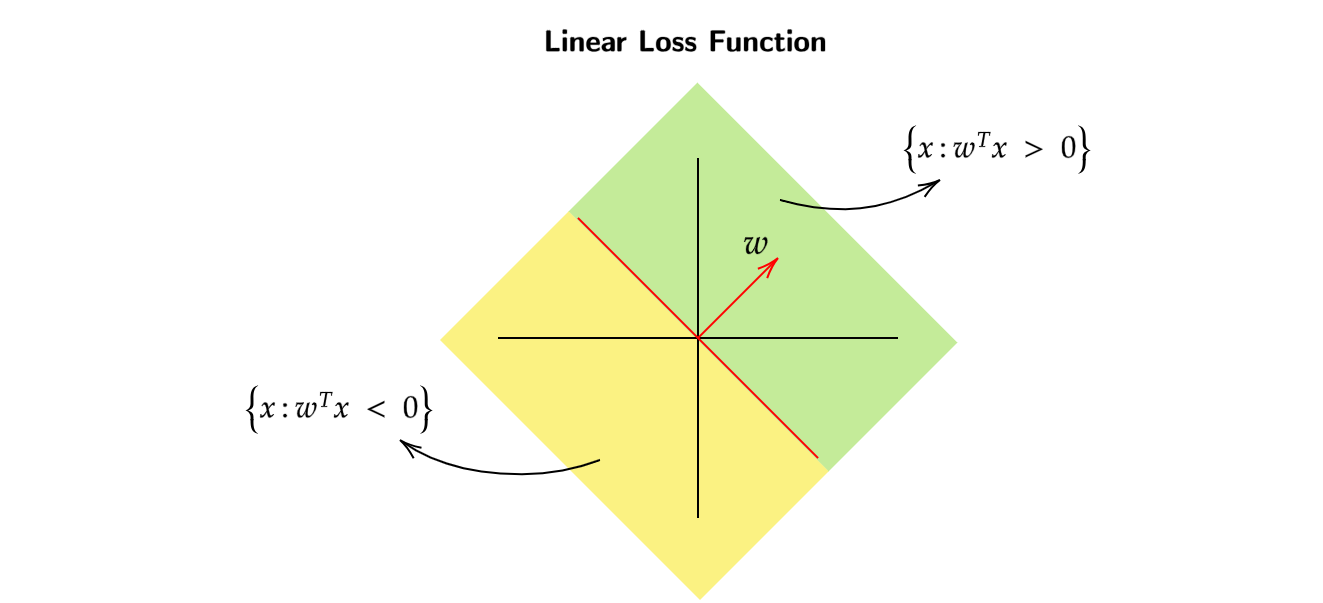
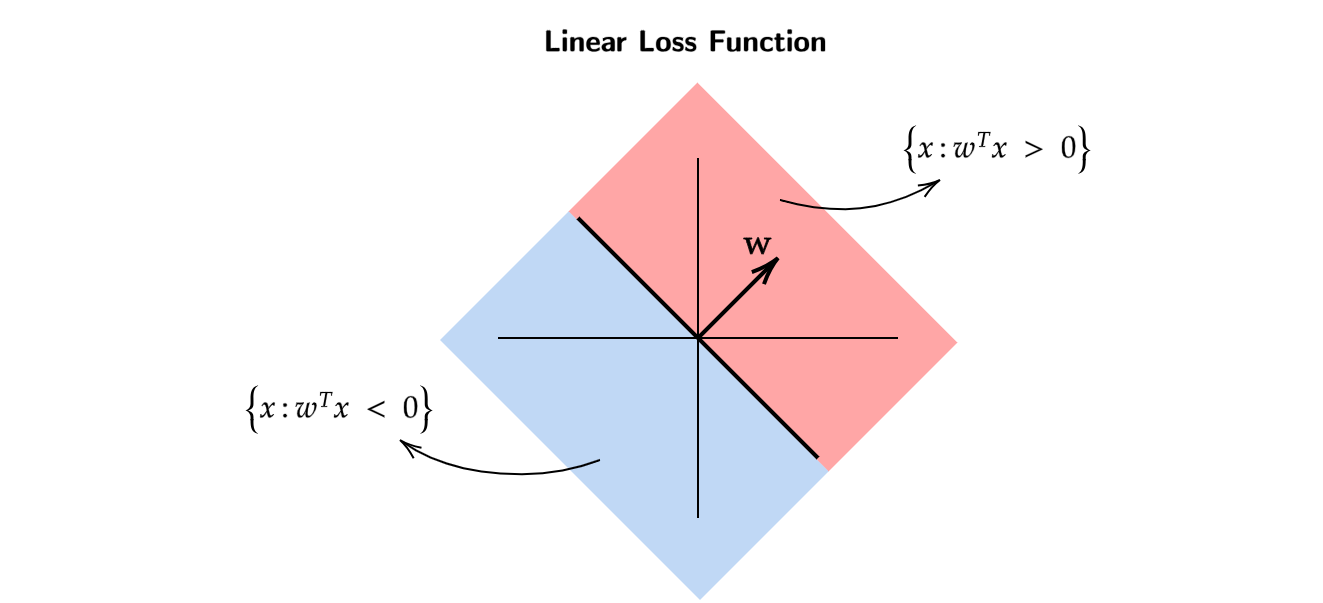
w7 all notes

Changed region(s): [[0.3099, 0.1493, 0.7438, 0.9851]]

diff --git a/docs/MLT/WEEK 7/Classification.md b/docs/MLT/WEEK 7/Classification.md
@@ -1,3 +1,7 @@
+!!! note 
+    Throughout the diagrams I have used red color to indicate a +1 or 
+    positive label and blue color for -1 or a negative label 
+
 # Classification
 ## Introduction to Binary Classification 
 For a set of datapoints $\{ x_1 , x_2 , x_3 ... x_n \}$ where 
@@ -171,3 +175,130 @@ The output of this algorithm is a "Decision Tree".
     decision based on the value of a specific feature, each branch 
     represents the outcome of that decision, and each leaf node 
     represents the final predicted outcome or class label.
+
+![](img/decision_tree.png)
+
+> How do we get a prediction for a point?
+
+To get the prediction of a datapoint $x_\text{test}$ , we simply 
+traverese through the decision tree , asking questions until we 
+reach the leaf nodes.
+At the end we assign the value of the leaf node to $y_\text{test}$.
+
+The model here (which wasnt in there in KNN) is the decision tree ,
+after training our dataset on the decision tree , we can get rid of 
+the dataset and predict new "test points" by solely relying on the 
+decision tree.
+
+!!! question "Whats a question in a decision tree?"
+    In a decision tree , a question is a feature-value 
+    pair.
+
+    Where the "feature" is the feature in the datapoint
+    and the "value" is the number with which we compare 
+    the "feature".
+
+> How to measure goodness of a question?
+
+For a dataset $D = \{ (x_1 , y_1), (x_2 , y_2), ... (x_n , y_n) \}$ , for 
+a particular feature , we want to ask such a question that (ideally) it 
+matches each datapoint to its label , in other words our predicition 
+should be the same as the labels assigned to a datapoint in the dataset 
+$D$.
+
+In reality , such questions may not exist , this means we have to somehow
+capture the notion of "impurity" for these questions.
+
+### Measure of impurity for a set of datapoints 
+For a dataset $D = \{ (x_1 , y_1), (x_2 , y_2), ... (x_n , y_n) \}$ , an
+"impurity" function for a question can be given as 
+
+$$\begin{equation*}
+\begin{split}
+\text{Entropy}(y_1 , y_2 , ... y_n) &= \text{Entropy}(p) \\
+&= - (p \log p + (1-p) \log (1-p) ) \;\;\;\;\;\;\;\; [\text{convention} \;\; \log 0 = 0]
+\end{split}
+\end{equation*}$$
+
+![](img/entropy_function.png)
+
+- When $p=0$ or $p=1$ , it means that all of the datapoints 
+are classified to a single label.
+- At $p=0.5$ , entropy is the highest , hence its the worst case.
+- **Note** that the entropy at $p$ and $1-p$ is always the same.
+- By convention , $p = \frac{\text{Total Number of 1s}}{\text{Total Number of DataPoints}}$
+
+> We know that for a given question , we assign labels to datapoints 
+based on the question asked. A question always assigns datapoints to 
+2 labels , either a 1 or -1. We can measure the entropy of the dataset $D$ and
+the points which belong to the assigned labels , but how do we combine these 3
+values (entropy of D , entropy of points assigned to label 1 , entropy of points 
+assigned to label -1) into a singular value measure overall impurity?
+
+### Information Gain 
+Information Gain for a feature,value pair is given as,
+
+$$\begin{equation*}
+\begin{split}
+\text{Information Gain}(\text{feature,value}) &= \text{Entropy}(D) - [\gamma \text{Entropy}(D_\text{yes}) + (1- \gamma)\text{Entropy}(D_\text{no})] \\
+\\
+\text{where,}\\
+\\
+\gamma &= \frac{|D_\text{yes}|}{|D|}
+\end{split}
+\end{equation*}$$
+
+We use $\gamma$ to take into account the number of datapoints.
+A dataset $\alpha$ with 100 datapoints , from which 99 are classified as 
+label 1 and another dataset $\beta$ with 10000 datapoints , from which 9900 are
+classified as label 1 , will have the same entropy but the measure of information 
+gain will be higher for $\beta$ when compared to $\alpha$ , as the decision 
+tree trained on $\beta$ was able to classify more datapoints.
+
+## Decision Tree Algorithm
+- Discretize each feature in the [min,max] range.
+- Pick the question that has the highest information gain.
+- Repeat the procedure for $D_\text{yes}$ and $D_\text{no}$.
+
+> We can keep adding questions to the decision tree by using 
+the above procedure , but where do we stop?
+
+We stop adding new questions to the decision tree after we 
+reach a certain "threshold of purity" , this is generally 
+around 90% purity.
+
+### Example of Decision Tree 
+![](img/dec_tree_example.png)
+
+
+We classify the blue point on the right side as outlier when 
+we use cross validation method.
+If we were to keep adding more questions such that the outlier no longer 
+lies in an "incorrect" region , the purity of the decision tree may increase
+and so will the complexity.
+
+Our goal is to make small decision trees with a respectable measure of
+"purity".
+
+## Generative and Discriminative Models 
+In classical classification problems, two types of models are commonly employed:
+generative models and discriminative models.
+
+Generative models capture the joint distribution between features and labels
+and are represented as:
+
+$$P(x,y)$$
+
+These models focus on modeling the feature generation process.
+
+On the other hand, discriminative models directly model the conditional 
+probability of labels given the features and are represented as:
+
+$$P(y|x)$$
+
+Discriminative models generate labels solely based on the provided data.
+
+It is important to understand the differences between generative 
+and discriminative models when choosing an appropriate modeling approach for a given
+classification problem.
+

diff --git a/docs/MLT/WEEK 8/Models.md b/docs/MLT/WEEK 8/Models.md
@@ -1,0 +1,13 @@
+# Types of Models 
+
+## Generative Model-Based Algorithm
+For a dataset $D= \{ (x_1,y_1), (x_2,y_2), ... (x_n,y_n) \}$,
+let $x$ and $y$ both be binary features such that $x_i \in \{ 0,1 \}^d$
+and $y_i \in \{ 0,1 \}$
+
+> Can features be binary? Does it even have an real life uses?
+
+> The features can be binary and usually represent Yes/No type 
+question. One of the examples is of spam classification of mail 
+which we will be doing now.
+
